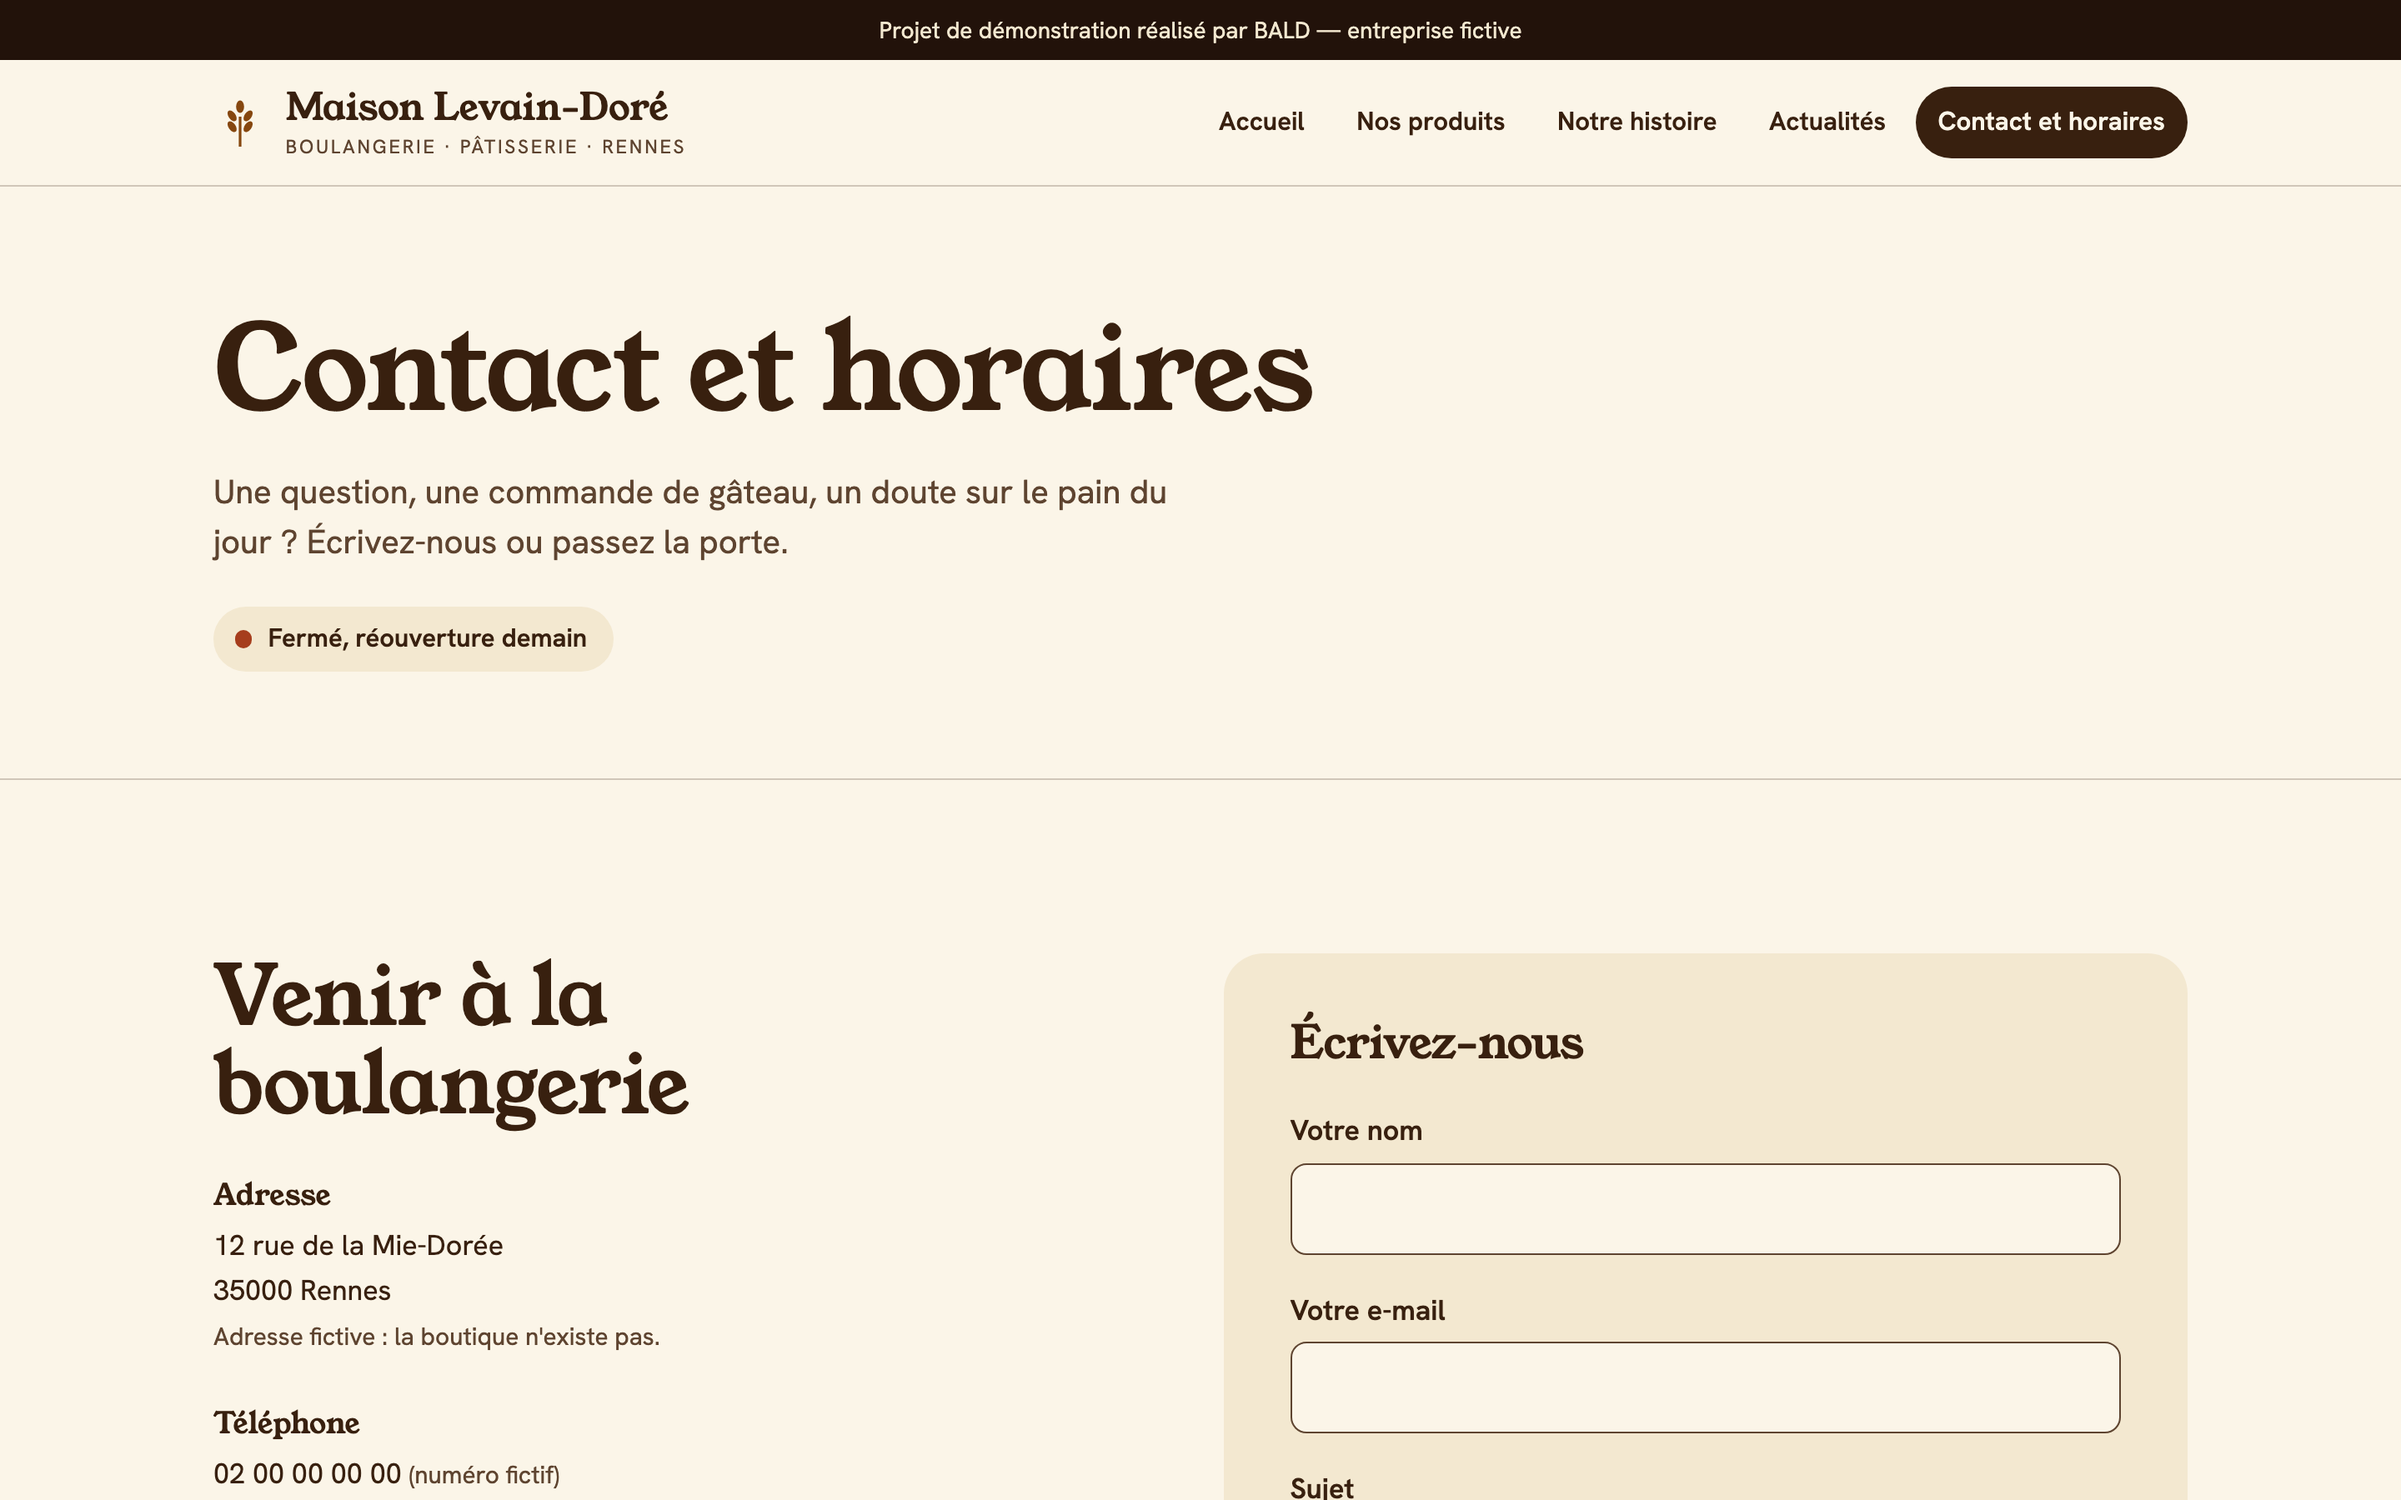
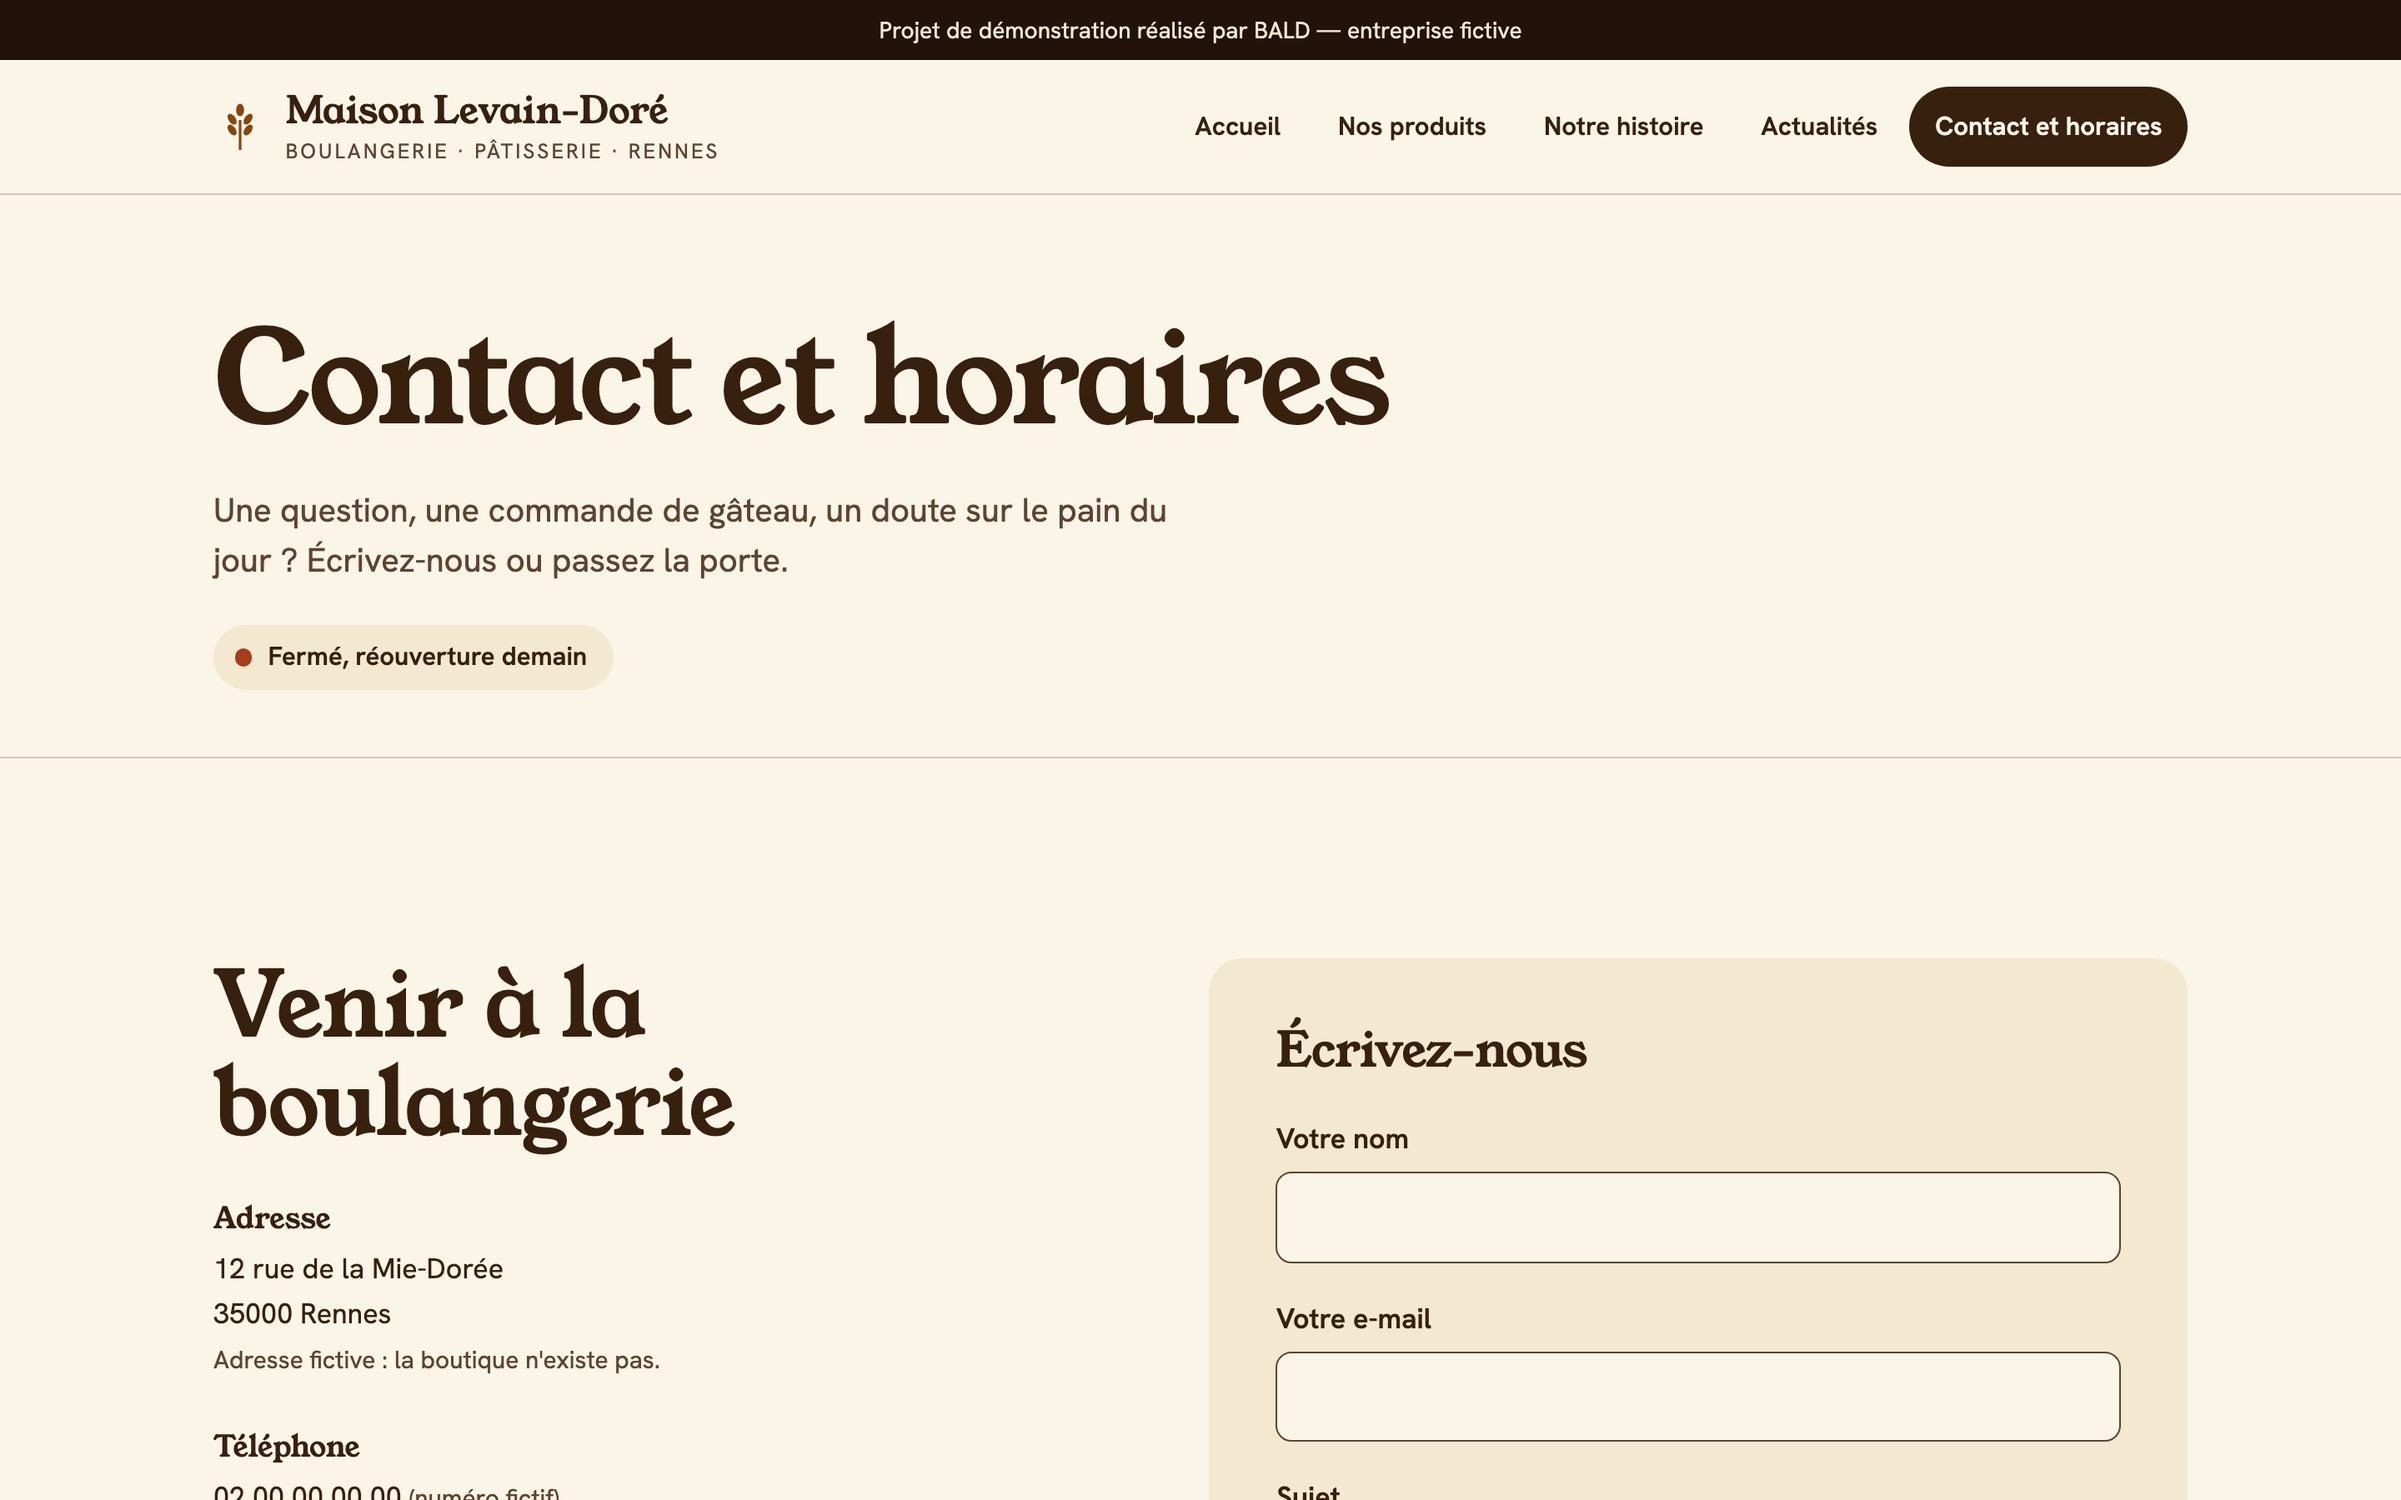
Étape 3 : finition (images responsives, page 404, pied de page, tampon mobile, textes de hiérarchie) ; étape 4 : tests et nouvelles captures

diff --git a/css/style.css b/css/style.css
@@ -101,7 +101,7 @@ p { margin: 0 0 1em; max-width: 66ch; text-wrap: pretty; }
 /* En-tête */
 .site-tete { border-bottom: 1px solid var(--ligne); background: var(--farine); position: relative; z-index: 20; }
 .site-tete .conteneur { display: flex; align-items: center; justify-content: space-between; gap: var(--e3); padding-block: var(--e2); }
-.marque { display: inline-flex; align-items: center; gap: 0.7rem; text-decoration: none; font-family: var(--serif); font-size: 1.4rem; line-height: 1; white-space: nowrap; }
+.marque { display: inline-flex; align-items: center; gap: 0.7rem; text-decoration: none; font-family: var(--serif); font-size: 1.4rem; line-height: 1.15; white-space: nowrap; }
 .marque svg { width: 2rem; height: 2rem; flex: none; color: var(--croute); transition: transform 0.6s var(--ease); }
 .marque:hover svg { transform: rotate(-8deg) scale(1.08); }
 .marque small { display: block; font-family: var(--sans); font-size: 0.78rem; letter-spacing: 0.12em; text-transform: uppercase; color: var(--brun-doux); margin-top: 0.3rem; }
@@ -175,7 +175,8 @@ section { padding-block: var(--section); }
 @media (max-width: 52rem) {
   .hero-immersif { min-height: 88svh; }
   .hero-fond { object-position: 72% 50%; }
-  .tampon { width: 6.5rem; height: 6.5rem; font-size: 0.78rem; top: -3.25rem; bottom: auto; right: 0; padding: 0.7rem; }
+  .hero-contenu { position: static; }
+  .tampon { width: 6.5rem; height: 6.5rem; font-size: 0.78rem; top: 1.25rem; bottom: auto; right: var(--gutter); padding: 0.7rem; }
   .tampon b { font-size: 1.35rem; }
 }
 
@@ -355,7 +356,7 @@ html:not(.js) .visionneuse { display: none; }
 /* Pied de page */
 .site-pied { background: var(--fournil); color: var(--creme); padding-block: var(--e5) var(--e3); border-top: 1px solid rgba(243, 232, 208, 0.15); }
 .pied-grille { display: grid; grid-template-columns: 1.3fr 1fr 1.25fr 0.8fr; gap: var(--e4); }
-.site-pied h2 { font-size: 1.15rem; margin-bottom: var(--e2); color: var(--dore); }
+.site-pied h2 { font-size: 1.4rem; margin-bottom: var(--e2); color: var(--dore); }
 .site-pied p, .site-pied address { margin: 0 0 0.6rem; font-style: normal; }
 .site-pied ul { list-style: none; padding: 0; margin: 0; }
 .site-pied .marque { color: var(--farine); margin-bottom: var(--e2); }
@@ -425,3 +426,4 @@ html:not(.js) .nav a { padding: 0.55rem 0.8rem; font-size: 0.97rem; }
 .avis-sans-js { display: none; }
 html:not(.js) .avis-sans-js { display: block; }
 html:not(.js) #formulaire-contact { display: none; }
+.page-perdue { min-height: 50svh; display: grid; align-items: center; } .page-perdue h1 { max-width: 14ch; }

diff --git a/src/pages/index.html b/src/pages/index.html
@@ -4,7 +4,7 @@ description: Site de démonstration : boulangerie-pâtisserie artisanale fictive
 jsonld: oui
 ---
 <section class="hero-immersif sombre">
-  <img class="hero-fond" src="assets/img/hero-croissant-farine.jpg" alt="" width="2200" height="1760" fetchpriority="high" decoding="async">
+  <img class="hero-fond" src="assets/img/hero-croissant-farine.jpg" srcset="assets/img/700/hero-croissant-farine.jpg 1100w, assets/img/hero-croissant-farine.jpg 2200w" sizes="100vw" alt="" width="2200" height="1760" fetchpriority="high" decoding="async">
   <div class="conteneur hero-contenu">
     <div class="hero-texte">
       <h1>Le pain <em>d'abord</em>. Le reste, avec patience.</h1>

diff --git a/src/pages/404.html b/src/pages/404.html
@@ -1,0 +1,14 @@
+---
+title: Page introuvable — Maison Levain-Doré (démonstration)
+description: La page demandée n'existe pas.
+---
+<section class="page-perdue">
+  <div class="conteneur">
+    <h1>Cette page est partie au four</h1>
+    <p class="chapeau">La page que vous cherchez n'existe pas ou a changé d'adresse. Revenez à l'accueil ou regardez la carte du jour.</p>
+    <div class="actions">
+      <a class="bouton" href="index.html">Retour à l'accueil {{icone:fleche}}</a>
+      <a class="bouton discret" href="produits.html">Voir nos produits</a>
+    </div>
+  </div>
+</section>

diff --git a/CLAUDE.md b/CLAUDE.md
@@ -15,6 +15,7 @@ Les pages du site sont **générées** : `node build.mjs` lit `content/*.json` e
 - `src/partials/tete.html` et `pied.html` : bandeau de démonstration, en-tête et pied de page (**un seul endroit**).
 - `src/pages/*.html` : contenu propre à chaque page, avec un en-tête `---` (title, description, `jsonld: oui` pour ajouter les données structurées Bakery).
 - Blocs utilisables dans les pages : `{{site.nom}}`, `{{site.rue}}`, `{{site.telephone}}`… (champs de `content/site.json`), `{{cartes:pains}}`, `{{cartes:moment}}` (cartes produits avec photo), `{{horaires}}`, `{{horairesCompact}}`, `{{statut}}`, `{{actus}}`, `{{journee}}` (+ `{{journee.titre}}`, `{{journee.intro}}`), `{{galerie}}` (+ `{{galerie.titre}}`, `{{galerie.intro}}`), `{{credits}}`, `{{icone:fleche}}`.
+- Images : chaque photo `assets/img/x.jpg` (1400 px) peut avoir une version réduite `assets/img/700/x.jpg` ; le build l'ajoute en `srcset` (moins de données sur mobile). Dimensions `width`/`height` lues automatiquement. `src/pages/404.html` devient la page d'erreur Netlify.
 - **Chaque photo de `assets/img/` doit avoir une entrée dans `content/credits.json`** : sinon le build échoue (les crédits sont publiés dans les mentions légales).
 - Le script valide les contenus (catégorie inconnue, heures invalides, image absente…) et **échoue avec un message clair** plutôt que de publier un site cassé.
 - Netlify : `netlify.toml` lance `node build.mjs` et publie `dist/` à chaque commit, y compris ceux de Pages CMS.
